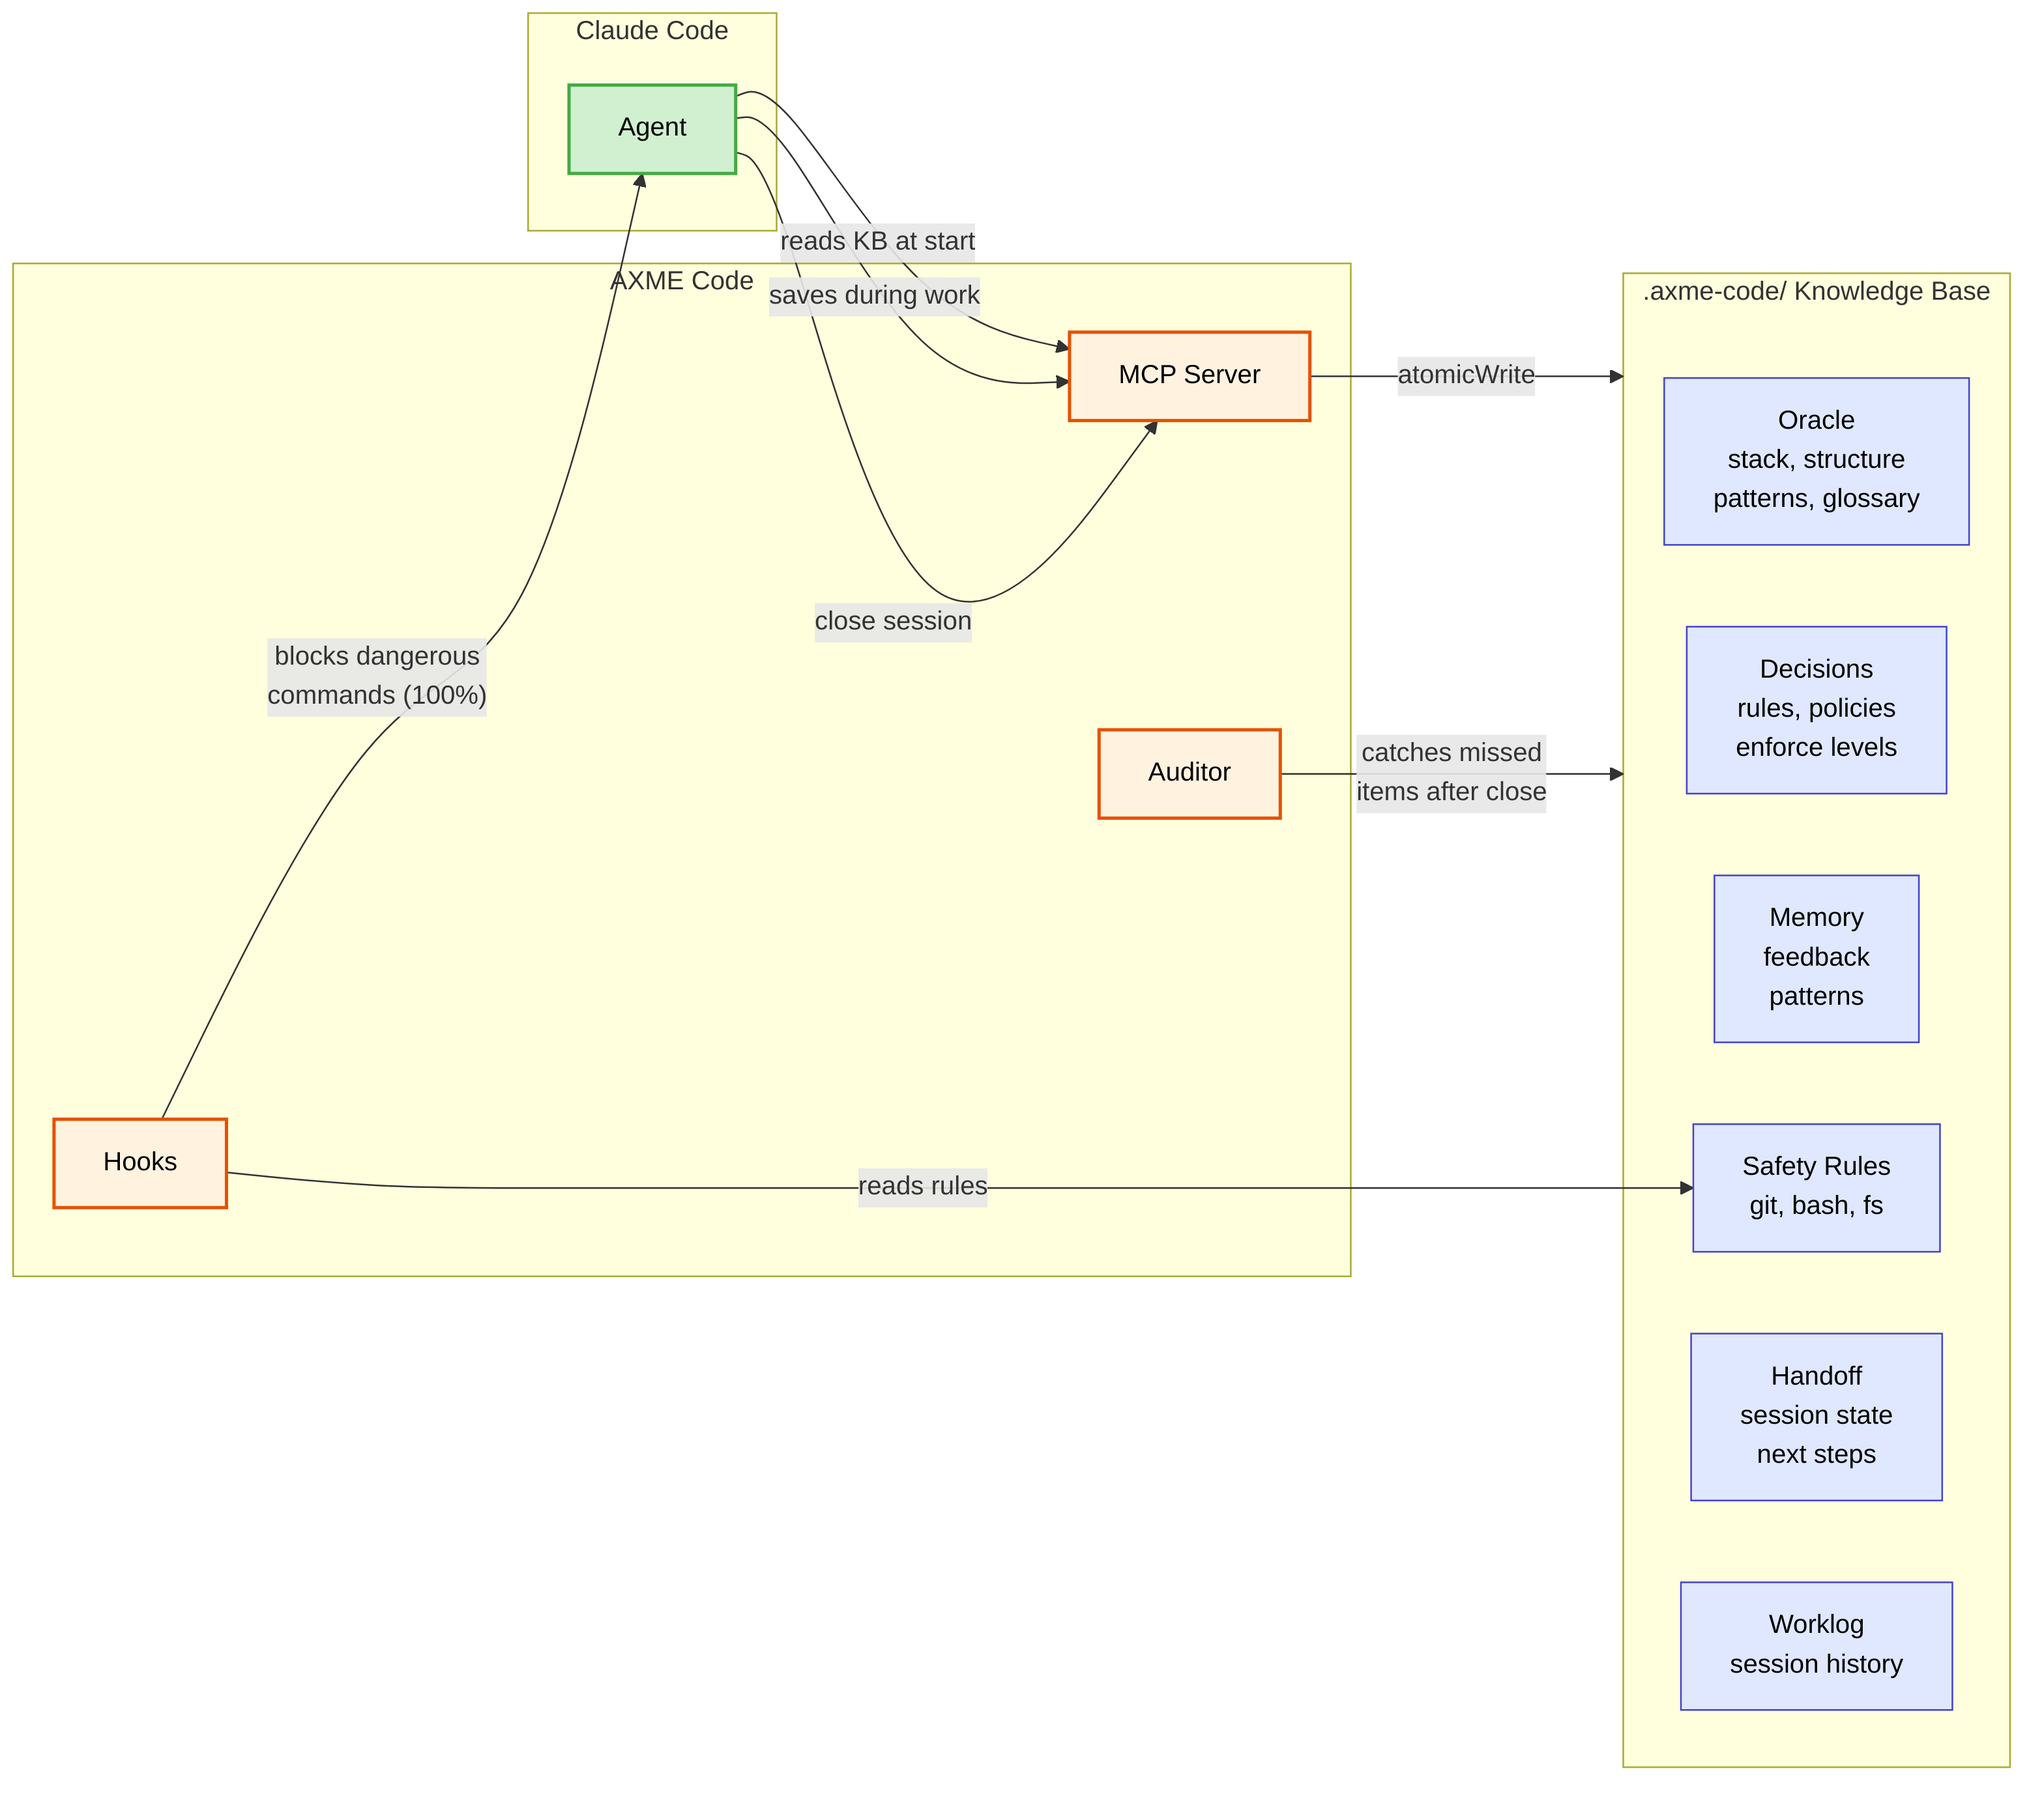
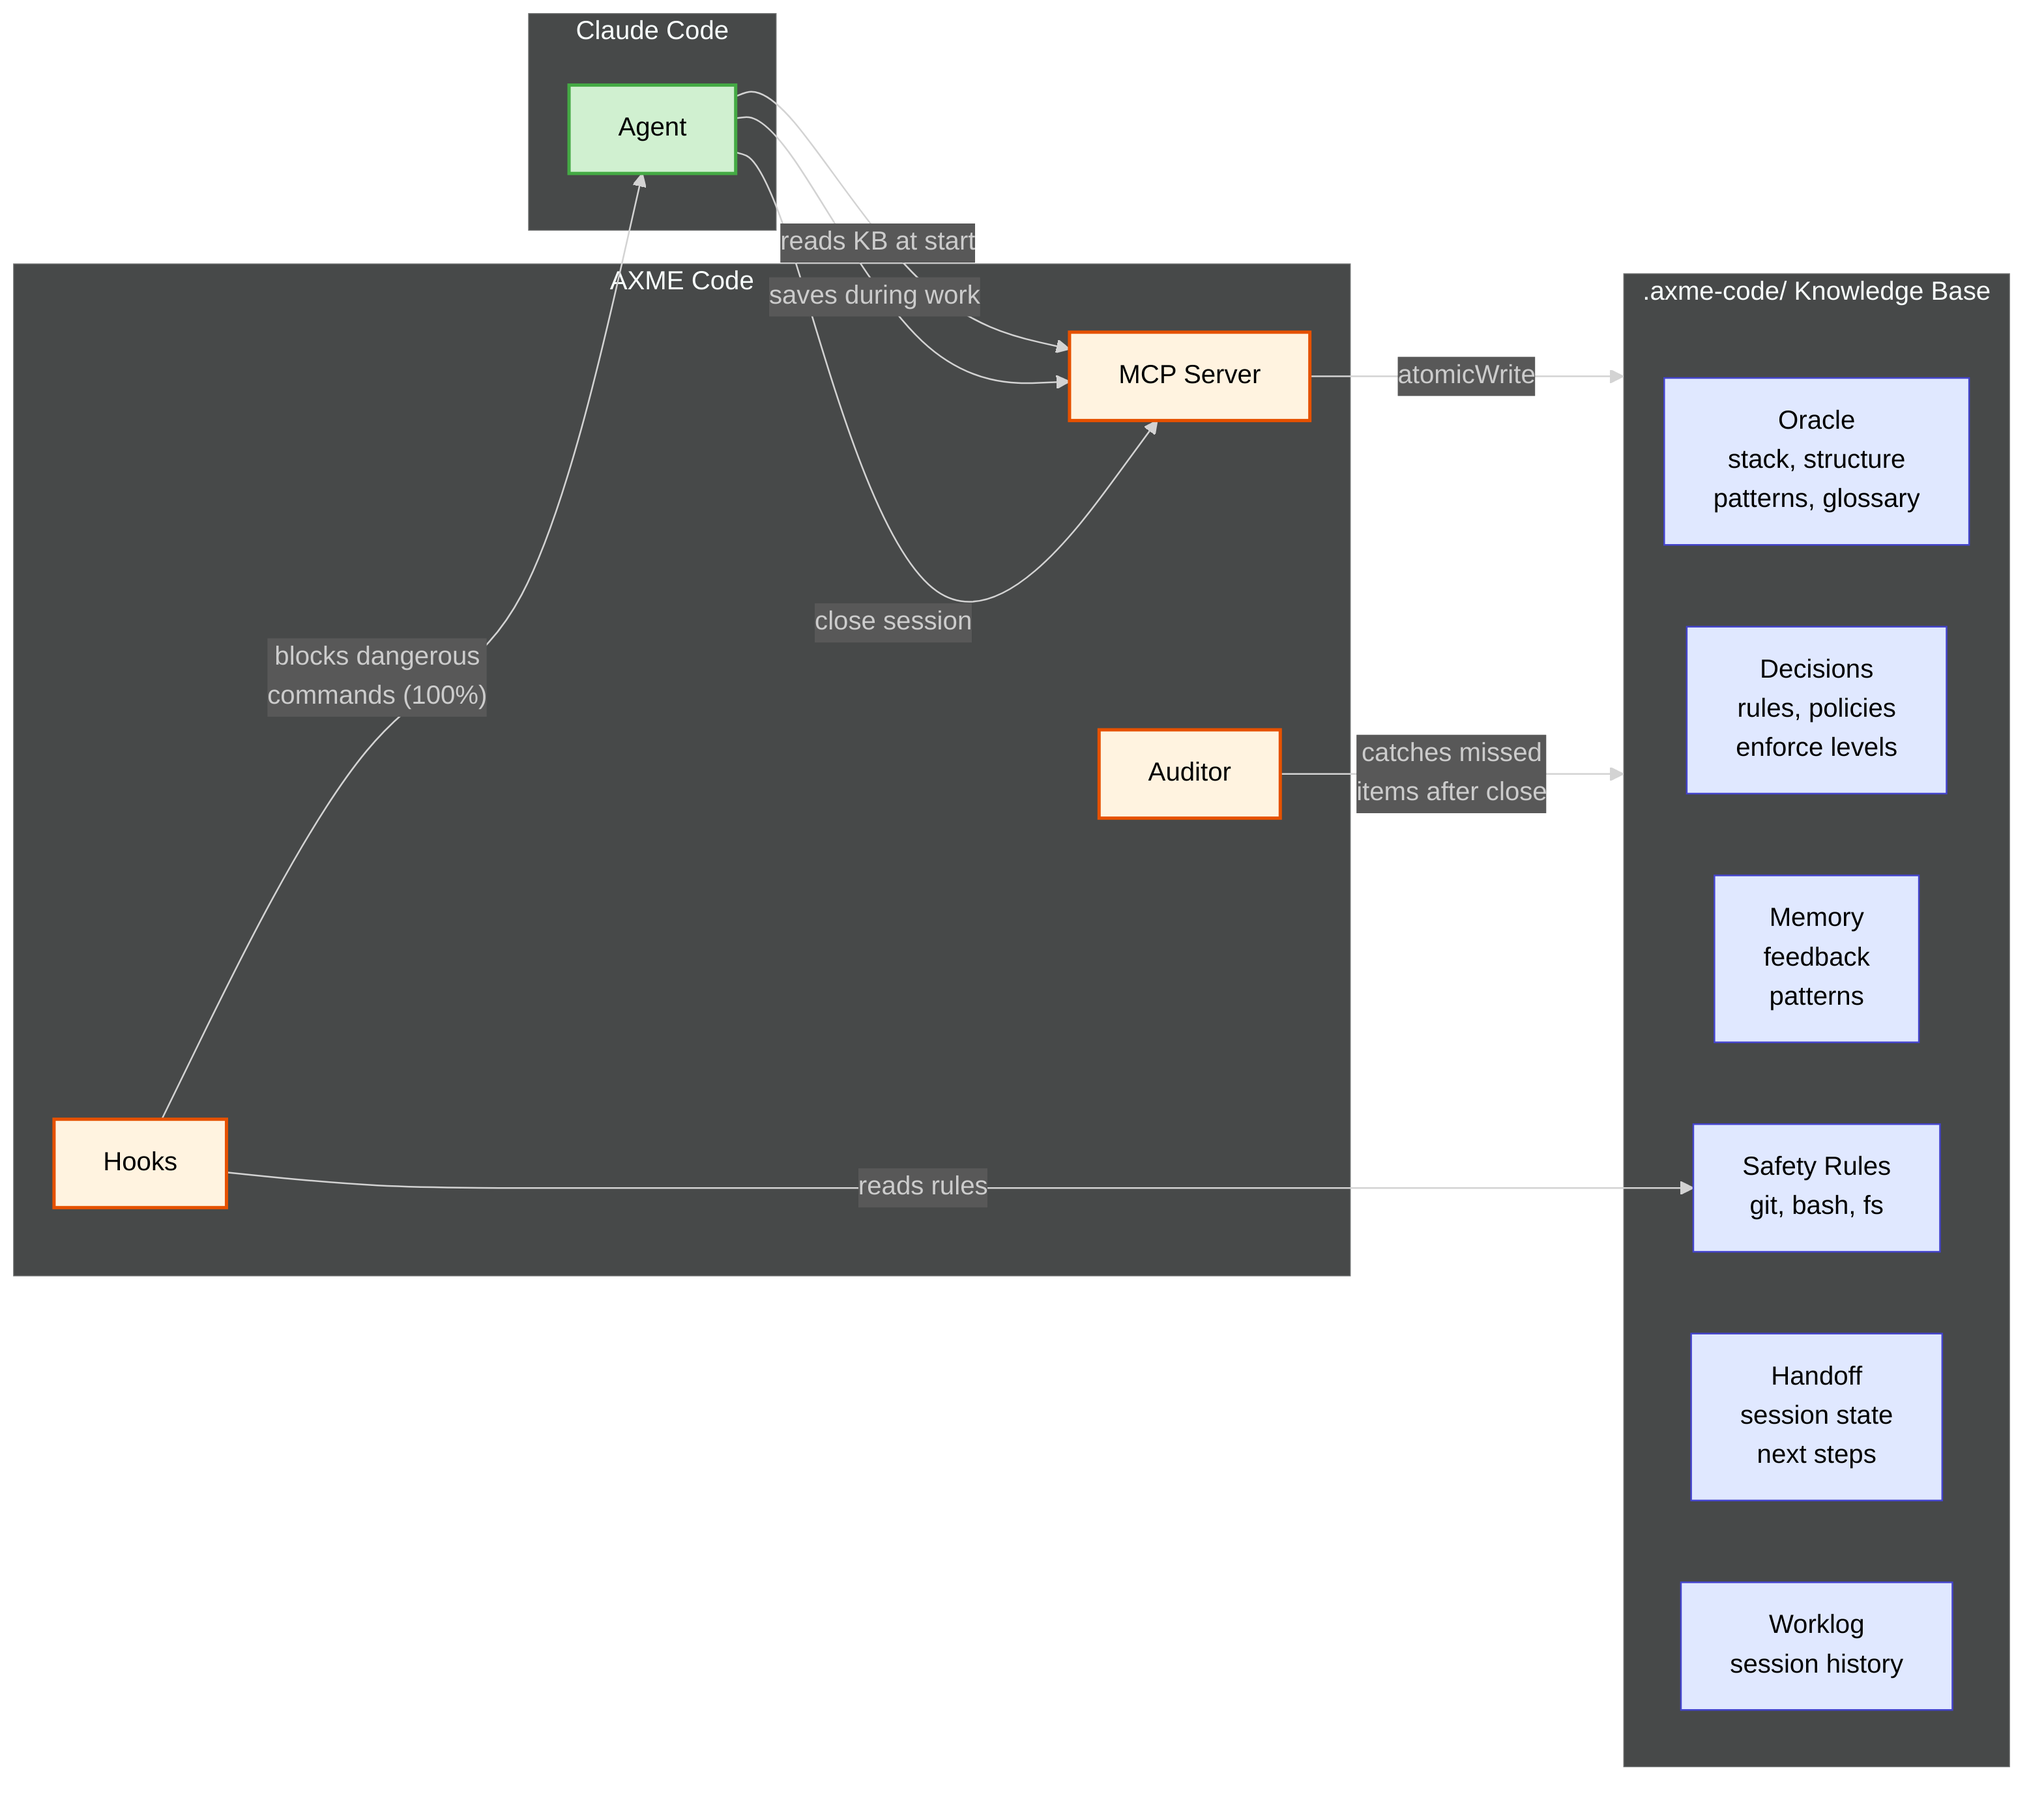
docs: README iteration - dark diagram, reorganize sections, trim footer
1. Diagram back to dark theme
2. Components section moved to collapsible at bottom
3. Knowledge Categories moved up (between What You Get and How It Works)
4. Preset Bundles moved to collapsible
5. Development section removed
6. Related trimmed to axme only
7. Security/License links removed from footer (broken)

diff --git a/README.md b/README.md
@@ -61,27 +61,22 @@ Each repo has its own knowledge base (`.axme-code/`). Workspace-level rules appl
 
 ---
 
+## Knowledge Categories
+
+| Category | What it stores | Example |
+|----------|---------------|---------|
+| **Oracle** | Project structure, tech stack, coding patterns, glossary | "Python 3.11, FastAPI, PostgreSQL" |
+| **Decisions** | Architectural decisions with enforcement levels (required/advisory) | "All deploys via GitHub Actions only" (required) |
+| **Memory** | Feedback from mistakes, validated patterns | "Never use sync httpx in async handlers" |
+| **Safety** | Protected branches, denied commands, filesystem restrictions | git push --force -> BLOCKED |
+| **Handoff** | Where work stopped, blockers, next steps | "PR#17 open, needs review" |
+| **Worklog** | Session history, audit results, events | Timeline of all sessions |
+
+---
+
 ## How It Works
 
 ![AXME Code Overview](docs/diagrams/axme-code-overview.png)
-
-AXME Code has three components:
-
-### 1. MCP Server (persistent, runs while VS Code is open)
-
-Provides tools for the agent to read and write the knowledge base. All writes go through MCP server code (atomicWrite, correct append) - the agent never writes storage files directly. This guarantees format consistency.
-
-### 2. Hooks (fire on every tool call)
-
-**pre-tool-use**: Checks every Bash command, git operation, and file access against safety rules. Blocks violations before they execute. Also creates/recovers session tracking.
-
-**post-tool-use**: Records which files the agent changed (for audit trail).
-
-### 3. Background Auditor (runs after session close)
-
-A detached process that reads the session transcript and catches anything the agent forgot to save. Two modes:
-- **Full extraction** - when the agent crashed or the user closed the window without formal close
-- **Verify-only** - when the agent completed the close checklist (lighter, cheaper)
 
 ### Session Flow
 
@@ -116,40 +111,38 @@ All data lives in `.axme-code/` in your project root (or workspace root for mult
   config.yaml       # Model settings, presets
 ```
 
-### Knowledge Categories
+---
 
-| Category | What it stores | Example |
-|----------|---------------|---------|
-| **Oracle** | Project structure, tech stack, coding patterns, glossary | "Python 3.11, FastAPI, PostgreSQL" |
-| **Decisions** | Architectural decisions with enforcement levels (required/advisory) | "All deploys via GitHub Actions only" (required) |
-| **Memory** | Feedback from mistakes, validated patterns | "Never use sync httpx in async handlers" |
-| **Safety** | Protected branches, denied commands, filesystem restrictions | git push --force -> BLOCKED |
-| **Handoff** | Where work stopped, blockers, next steps | "PR#17 open, needs review" |
-| **Worklog** | Session history, audit results, events | Timeline of all sessions |
+## Related
+
+| Repository | Description |
+|-----------|-------------|
+| [axme](https://github.com/AxmeAI/axme) | AXME platform - durable execution for AI agents |
 
 ---
 
-## Preset Bundles
+<details>
+<summary><strong>Components</strong></summary>
 
-During `axme-code setup`, preset bundles provide curated best-practice rules:
+AXME Code has three components:
 
-| Preset | What it adds |
-|--------|-------------|
-| **essential-safety** | Protected branches, no secrets in git, no force push, fail loudly |
-| **ai-agent-guardrails** | Verification requirements, no autonomous deploys, proof before done |
+### 1. MCP Server (persistent, runs while VS Code is open)
 
----
+Provides tools for the agent to read and write the knowledge base. All writes go through MCP server code (atomicWrite, correct append) - the agent never writes storage files directly. This guarantees format consistency.
 
-## Development
+### 2. Hooks (fire on every tool call)
 
-```bash
-npm install
-npm run build       # esbuild -> dist/server.js + dist/cli.mjs
-npm test            # Node.js test runner (requires Node 22+)
-npx tsc --noEmit    # TypeScript strict type check
-```
+**pre-tool-use**: Checks every Bash command, git operation, and file access against safety rules. Blocks violations before they execute. Also creates/recovers session tracking.
 
----
+**post-tool-use**: Records which files the agent changed (for audit trail).
+
+### 3. Background Auditor (runs after session close)
+
+A detached process that reads the session transcript and catches anything the agent forgot to save. Two modes:
+- **Full extraction** - when the agent crashed or the user closed the window without formal close
+- **Verify-only** - when the agent completed the close checklist (lighter, cheaper)
+
+</details>
 
 <details>
 <summary><strong>Available MCP Tools</strong></summary>
@@ -190,18 +183,18 @@ axme-code audit-session      # Run LLM audit on a session transcript
 
 </details>
 
+<details>
+<summary><strong>Preset Bundles</strong></summary>
+
+During `axme-code setup`, preset bundles provide curated best-practice rules:
+
+| Preset | What it adds |
+|--------|-------------|
+| **essential-safety** | Protected branches, no secrets in git, no force push, fail loudly |
+| **ai-agent-guardrails** | Verification requirements, no autonomous deploys, proof before done |
+
+</details>
+
 ---
 
-## Related
-
-| Repository | Description |
-|-----------|-------------|
-| [axme](https://github.com/AxmeAI/axme) | AXME platform - durable execution for AI agents |
-| [axme-cli](https://github.com/AxmeAI/axme-cli) | Command-line interface |
-| [axme-sdk-python](https://github.com/AxmeAI/axme-sdk-python) | Python SDK |
-| [axme-sdk-typescript](https://github.com/AxmeAI/axme-sdk-typescript) | TypeScript SDK |
-| [axme-docs](https://github.com/AxmeAI/axme-docs) | Documentation |
-
----
-
-hello@axme.ai | [Security](SECURITY.md) | [License](LICENSE)
+hello@axme.ai
